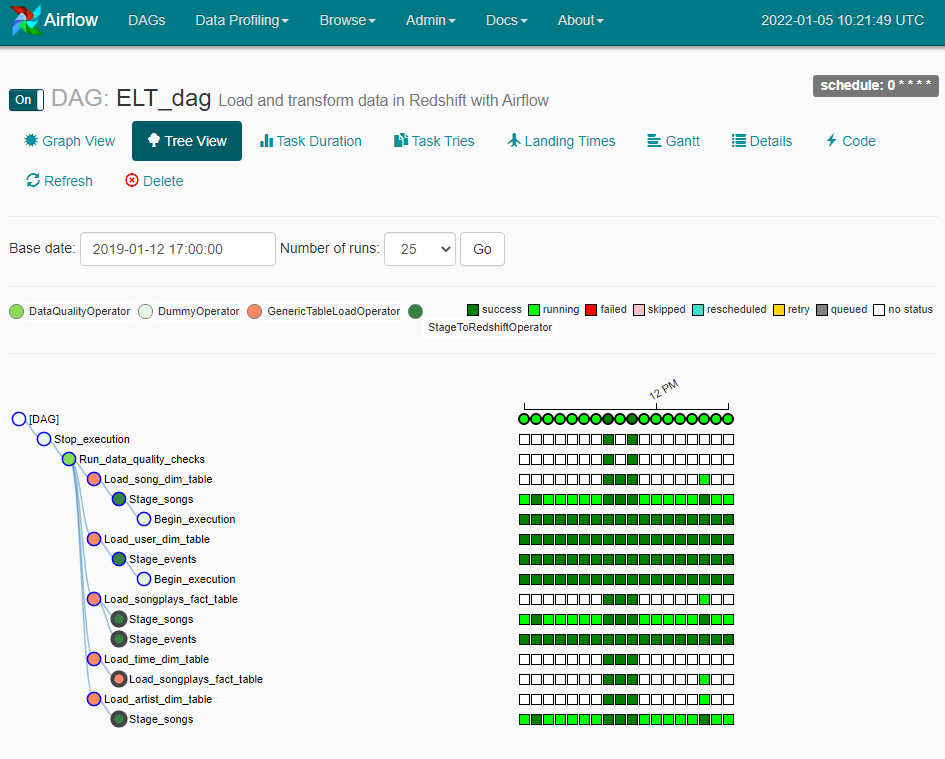
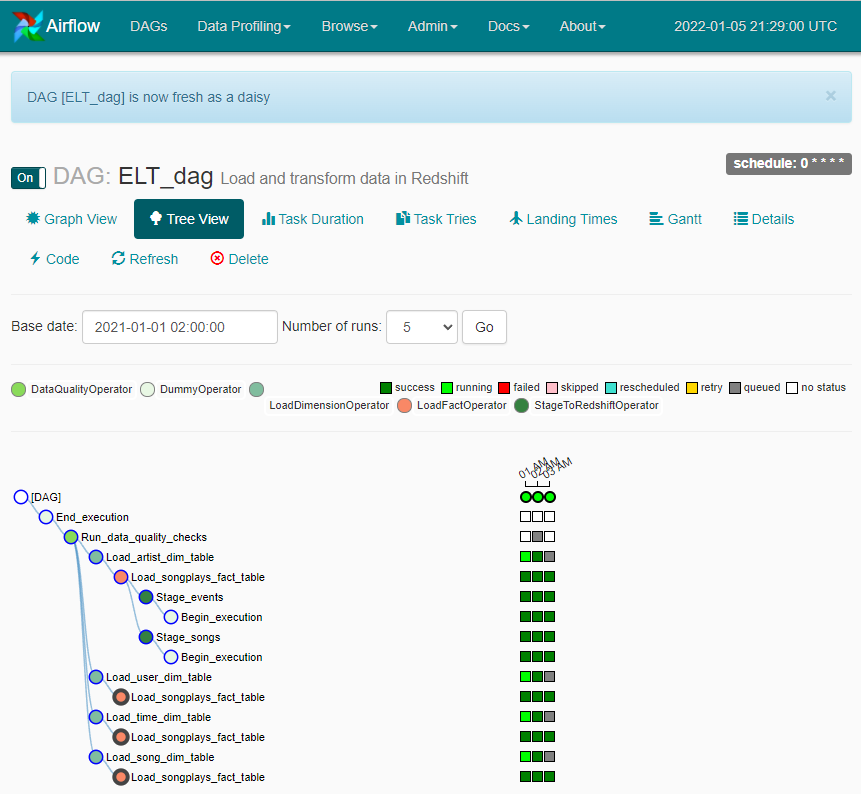
Updated documentation with new images

diff --git a/README.md b/README.md
@@ -3,15 +3,15 @@
 
 ## Summary
 
-This demo project conducts ETL operations on JSON files from AWS S3 and load data into AWS REdshift. 
+This demo project conducts ELT operations on JSON files from AWS S3 and loads data into AWS Redshift. 
 Apache Airflow schedules and runs the corresponding data pipeline.   
 
-The first step is to load data from AWS S3 into AWS Redshift. 
-The second step processes the data resources and writes results into five tables that model is star schema.
+The first step loads data from AWS S3 into AWS Redshift as staging tables. 
+The second step processes the data in the staging tables and builds five tables star schema.
 
 
 ## Data
-The data sets consists of two datasets of files, that are provided in AWS S3 data lakes:
+The data consists of two sets of files, that are provided in AWS S3 data lakes:
 
 - Song dataset (available at `s3://udacity-dend/song_data`) contains JSON files, like  
 
@@ -53,19 +53,18 @@ The data sets consists of two datasets of files, that are provided in AWS S3 dat
 
 ## Data Models
 
-The schema consists of the following tables: "songplays" as the fact table and "artists", "songs", 
-"time", and "users" as dimensional tables.  
+The schema consists of the following tables: "songplays" as the fact table and "artists", "songs", "time", and "users" as dimensional tables.  
 The following diagram shows the tables and corresponding attributes.
 
 ![Entity relation diagram](ERD_sql_schema.drawio.png)
 
-To build the star schema, the data from both sources is loaded into staging tables.
 
 ## Prerequisites
 
 The project runs having Python 3.6 and Apache Airflow. As a recommendation, use a Linux instance and install Airflow
- using pip. At least, we need Postgres and Amazon Web Services as Airflow providers.
-For install instruction see https://airflow.apache.org/docs/apache-airflow/stable/installation/installing-from-pypi.html
+ using pip. At least, we need Postgres and Amazon Web Services as Airflow providers (for install instructions
+see https://airflow.apache.org/docs/apache-airflow/stable/installation/installing-from-pypi.html)
+
 We can run Airflow locally (see https://airflow.apache.org/docs/apache-airflow/stable/start/local.html).  
 
 Both datasets are hosted at `s3://udacity-dend/song_data` and at `s3://udacity-dend/log_data`.
@@ -77,25 +76,25 @@ A running Python environment having Airflow is assumed.
 
 ### Setup Redshift cluster
 
-Create cluster and set login "awsuser" and "password" <your password>. As soon as the cluster runs,
-set publicly accessibility. Select "Amazon Redshift" -> "Clusters" -> "<name of your cluster>" 
-->  "Actions" -> "Modify publicly accessible setting" -> "Enable"
+Create a cluster and set login "awsuser" and "password" <your password>. As soon as the cluster runs,
+set publicly accessibility (select "Amazon Redshift" -> "Clusters" -> "<name of your cluster>" 
+->  "Actions" -> "Modify publicly accessible setting" -> "Enable").
 
 ### Start Airflow
 
-The sub folder "airflow" holds all project related code. 
+The subfolder "airflow" holds all project-related code. 
 
-After installing, the 'Standalone' command will initialise the database, make a user, and start all components for you.  
-```$ airflow standalone```  
+After installing, the 'Standalone' command will initialize the database, make a user, and start all components for you.  
+```$ airflow standalone```. 
 Alternatively, Udacity provides a start script 
-$ /opt/airflow/start.sh```
+$ /opt/airflow/start.sh```.
 
-If console shows a running webserver, open Airflow UI. Visit localhost:8080 in the browser and use the admin account 
-details shown on the terminal to login.
+If terminal  shows a running webserver, open Airflow UI. Visit localhost:3000 or localhost:8080 in the browser 
+and use the admin account details shown on the terminal to login.
 
 ### Set connections within Airflow
-To access AWS S3 and to process data in AWS Redshift, set the following connection within Airflow UI  
-```"Admin" -> "Connections" -> "Create"```
+To access AWS S3 and to process data in AWS Redshift, set the following connections within Airflow UI
+(```"Admin" -> "Connections" -> "Create"```):
 
 1. Connection setting **Redshift**:
 ```
@@ -121,40 +120,48 @@ To access AWS S3 and to process data in AWS Redshift, set the following connecti
     Extra       <empty>
 ```
 
+### DAGs
+
+The data pipeline utilizes two DAGs.
+
+![DAG_Overview.png](DAG_Overview.png)
+
+The first DAG **create_tables_dag* creates all required tables and needs to run
+once at first.
+
+The second DAG **ELT_dag**  executes the following operators depending on a schedule:
+
+The *StageToRedshiftOperator* loads JSON data from AWS S3 into a corresponding staging table in AWS Redshift.
+The *LoadFactOperator* and the *LoadDimensionOperator* load data from staging tables into the tables of the star schema.
+The *DataQualityOperator* checks tables of the data model and raises an error if the total count of rows of one
+table undershoots the parameter *min_number_of_rows*. 
+
+![DAG_dependencies.png](DAG_dependencies.png)
+
 
 ### Execute DAGs
 The Airflow UI shows two DAGs.
 
-The DAG create_tables_dag creates all required tables. 
-This DAG should only run once to (re-)set the database scheme. 
+The DAG **Create_tables_dag** creates all required tables. 
+This DAG should only run once to (re-)set the database schemes. 
 Run DAG **Create_tables_dag** by clicking *On*. After completion, you may turn the DAG *Off*.
  
-The ELT_dag compromises several dependent tasks. First tasks import JSON data from S3 into corresponding tables 
-*staging_events* and *staging_songs* in Redshift. 
-Afterwards, the DAG runs tasks to load data from staging tables into tables of star schema.
-Lastly, the task Data Quality Check queries the five tables and counts the number of rows. Having   
+The ELT_dag compromises several dependent tasks. The first tasks import JSON files from AWS S3
+into the corresponding tables *staging_events* and *staging_songs* in Redshift. 
+Afterward, the DAG runs tasks to load data from staging tables into tables of the star schema.
+Lastly, the task Data Quality Check queries these tables and counts the number of rows.
 
-The ELT_DAG is set to run from 2019-01-12 00:00 to 2019-01-13 00:00 hourly, for the reason on demonstration.  
-To start the DAG, just click "ELT_Dag". The Airflow UI represents the running ELT_dag.  
+The ELT_dag runs hourly from 2022-01-01 00:00 to 2022-01-02 00:00, for the reason on demonstration.  
+To start the DAG, just click "ELT_dag". The Airflow UI represents this DAG during execution:  
 
 ![ELT_dag_in_Airflow.png](ELT_dag_in_Airflow.png)
 
-### DAGs
+<!--
+## Reminder where to Add an new operator class:
 
-The data pipelines use two DAGs. The first DAG **create_tables_dag** creates all required tables and needs to run once.
-
-The second DAG **ELT_dag**  executes the following operators depending on a schedule:
-
-The *StageToRedshiftOperator* loads json data from AWS S3 into a corresponding staging table in AWS Redshift.
-The *GenericTableLoadOperator* executes insert queries to load data from staging tables into a 
-specific tables of the data model.
-The *DataQualityOperator* checks tables of the data model and raises an error, if the total count of rows of a 
-tables undershot the parameter *min_number_of_rows*. 
-
-# Hints
-Imports:
-./plugins/__init__.py -> within "operators" or "helpers"
-./plugins/operators/__init__.py -> within :
+Extend Imports:
+- ./plugins/__init__.py -> within "operators" or "helpers"
+- ./plugins/operators/__init__.py -> within :
 	1) from operators.<python file name> import <Operatorname>
     2) __all__ = [ <Class name of operator>, ]
-
+-->
